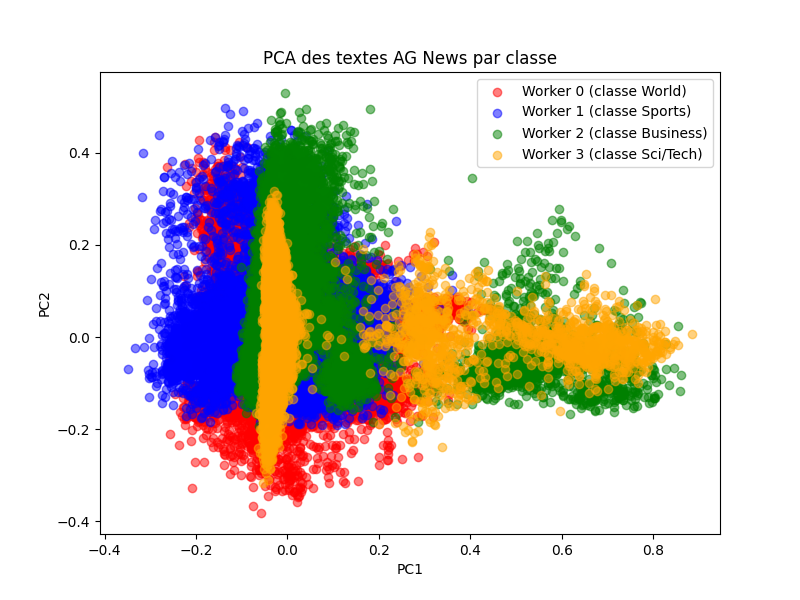
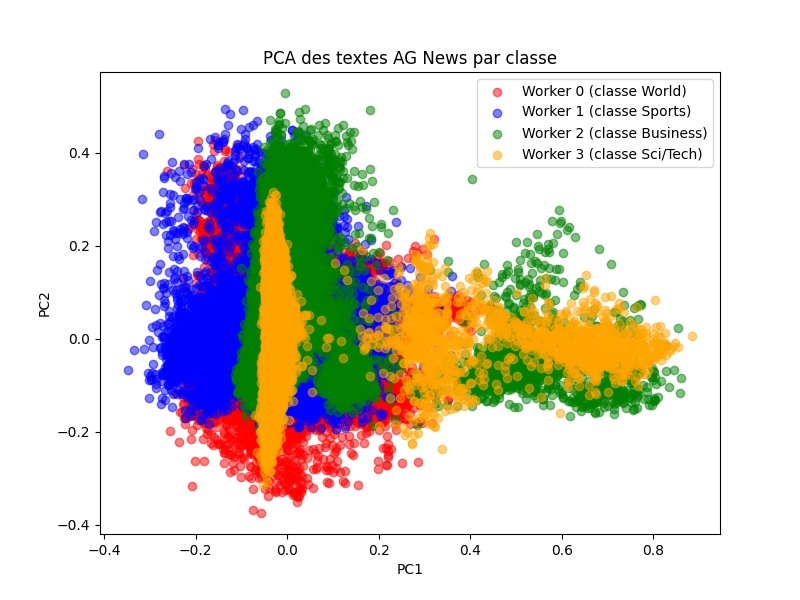
ajout histogramme AGNEWS

diff --git a/AG_NEWS.py b/AG_NEWS.py
@@ -52,4 +52,19 @@ plt.title("PCA des textes AG News par classe")
 plt.xlabel("PC1")
 plt.ylabel("PC2")
 plt.savefig("visualisations/AG_News/AG_News_data_visualisation.png")
+
+class_counts = [0,0,0,0]
+for item in dataset["train"]:
+    label = item['label']  # accéder correctement à la clé 'label'
+    class_counts[label] += 1
+
+# 4. Tracer l'histogramme
+plt.figure(figsize=(8,6))
+plt.bar([label_names[i] for i in range(4)], class_counts, color=['red','blue','green','orange'])
+plt.xlabel("Classes")
+plt.ylabel("Nombre d'exemples")
+plt.title("Distribution des classes dans AG News")
+plt.savefig("visualisations/AG_News/AG_News_data_histogramme.png")
+
+
 plt.show()
